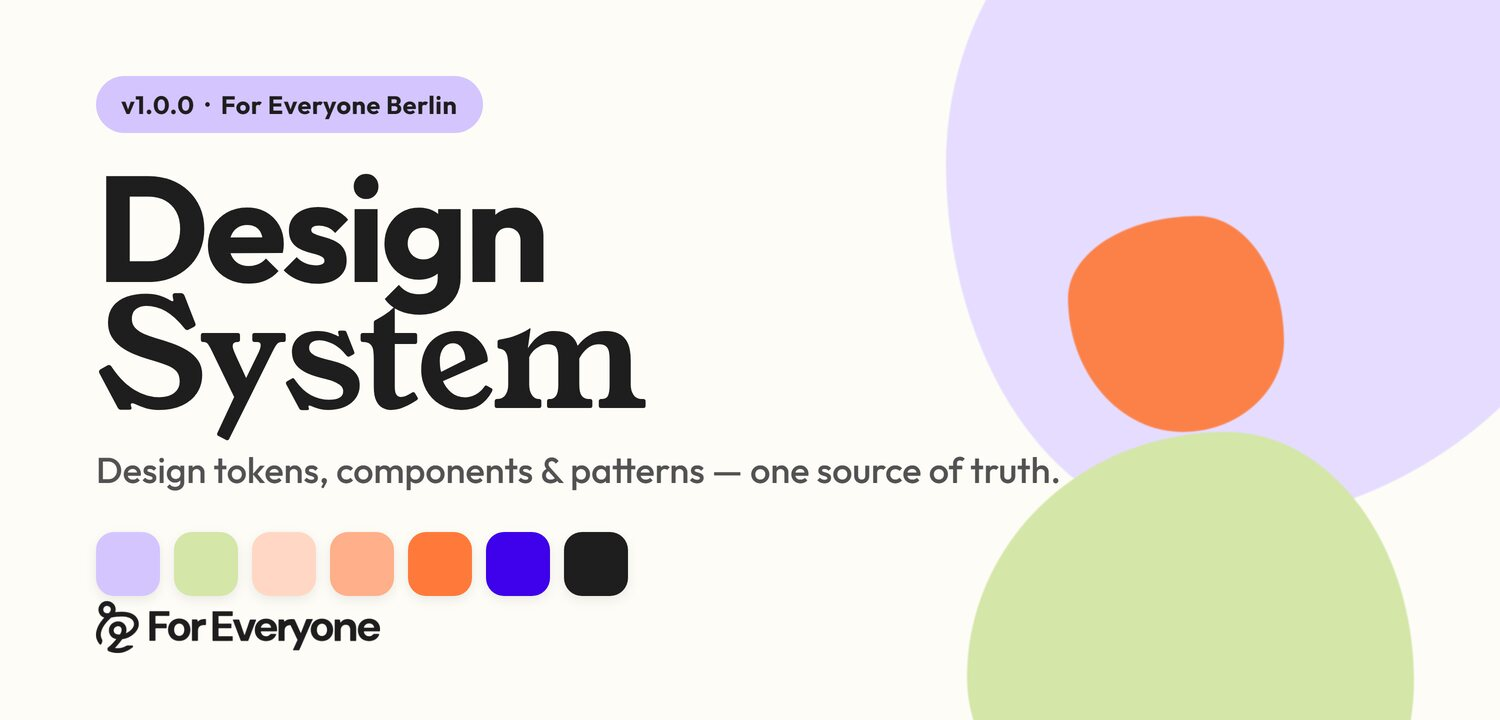
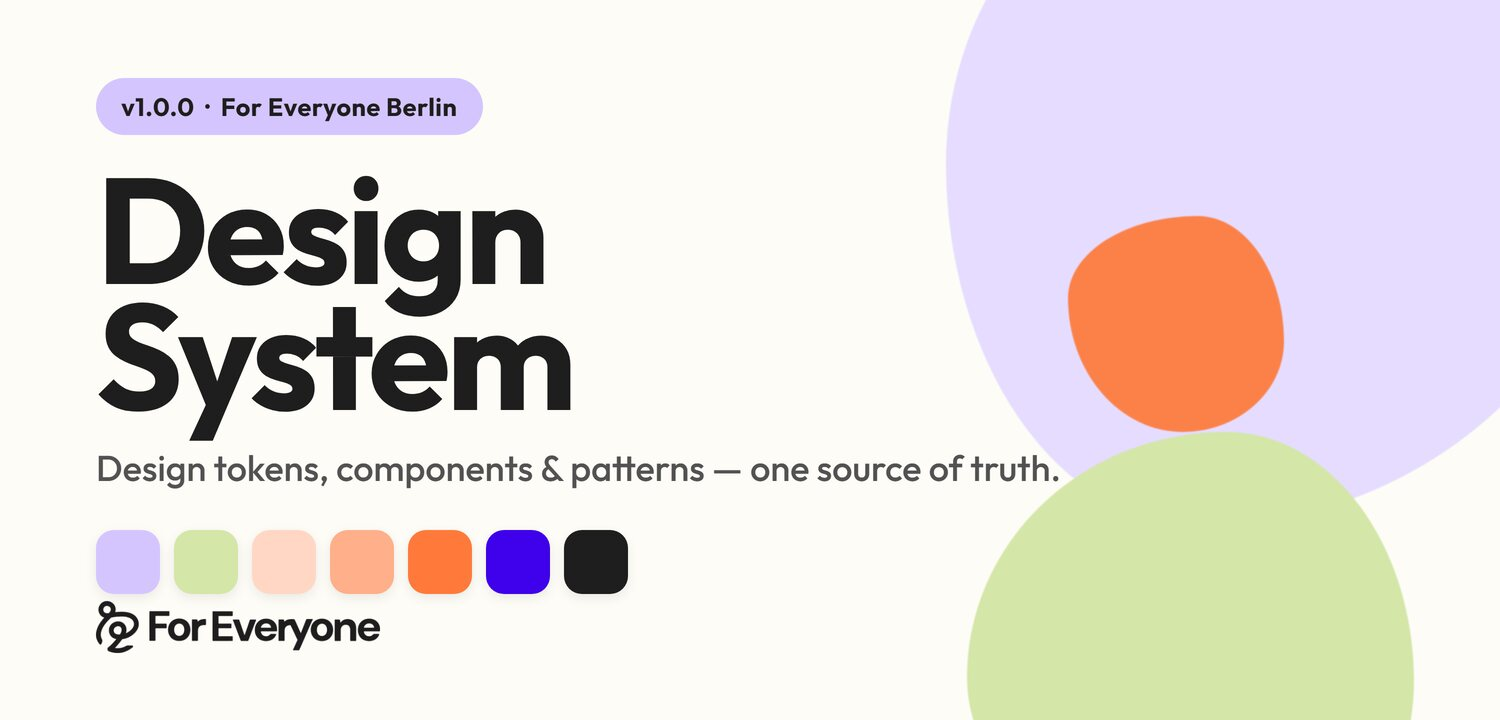
fix: apply brand review feedback
- Headlines render single charcoal; remove the orange two-tone accent and
  the .fe-h1--accent class (orange is decorative-only per brand).
- Keep Young Serif print-only; revert the digital serif accent and its
  prototype font loading.
- Remove the Motion token section from the prototype and docs surface.
- Label ramp swatches legibly (white on dark, charcoal on light).
- Tighten the 1.0.0 CHANGELOG to the documented one-line format.
- Regenerate the OG/README cards without the serif headline.

diff --git a/prototype/app/tokens/page.tsx b/prototype/app/tokens/page.tsx
@@ -28,19 +28,31 @@ const colorSwatches = [
   { token: "black", var: "var(--color-black)" },
 ];
 
-const rampSteps = {
-  neutral: ["50", "100", "200", "300", "400", "500", "600", "700", "800", "900"],
-  orange: ["50", "100", "150", "200", "300", "400", "500", "600", "700", "800", "900"],
-  green: ["50", "100", "150", "200", "300", "400", "500", "600", "700", "800", "900"],
-  blue: ["50", "100", "150", "200", "300", "400", "500", "600", "700", "800", "900"],
-  lavender: ["50", "100", "150", "200", "300", "400", "500", "600", "700", "800", "900"],
-} as const;
+const rampHex: Record<string, Record<string, string>> = {
+  neutral: { "50": "#FAFAFA", "100": "#F5F5F5", "200": "#E5E5E5", "300": "#D4D4D4", "400": "#A3A3A3", "500": "#737373", "600": "#525252", "700": "#404040", "800": "#262626", "900": "#1E1E1E" },
+  orange: { "50": "#FFF2EB", "100": "#FFE4D8", "150": "#FFD7C4", "200": "#FFCAB0", "300": "#FFAF89", "400": "#FF9561", "500": "#FF7A3A", "600": "#CC622E", "700": "#994923", "800": "#663117", "900": "#33180C" },
+  green: { "50": "#FBFCF6", "100": "#F6FAEE", "150": "#F2F7E5", "200": "#EEF5DC", "300": "#E5F0CB", "400": "#DDEBB9", "500": "#D4E6A8", "600": "#AAB886", "700": "#7F8A65", "800": "#555C43", "900": "#2A2E22" },
+  blue: { "50": "#ECE5FD", "100": "#D9CCFB", "150": "#C5B2F9", "200": "#B299F7", "300": "#8C66F3", "400": "#6533EF", "500": "#3F00EB", "600": "#3200BC", "700": "#26008D", "800": "#19005E", "900": "#0D002F" },
+  lavender: { "50": "#FBF9FF", "100": "#F7F3FF", "150": "#F2EEFF", "200": "#EEE8FF", "300": "#E6DCFF", "400": "#DDD1FF", "500": "#D5C5FF", "600": "#AA9ECC", "700": "#807699", "800": "#554F66", "900": "#2B2733" },
+};
 
-const colorRamps = Object.entries(rampSteps).map(([family, steps]) => ({
+// Pick a legible step label: white on dark swatches, charcoal on light ones.
+function labelColor(hex: string): string {
+  const toLin = (c: number) =>
+    c <= 0.03928 ? c / 12.92 : Math.pow((c + 0.055) / 1.055, 2.4);
+  const r = toLin(parseInt(hex.slice(1, 3), 16) / 255);
+  const g = toLin(parseInt(hex.slice(3, 5), 16) / 255);
+  const b = toLin(parseInt(hex.slice(5, 7), 16) / 255);
+  const luminance = 0.2126 * r + 0.7152 * g + 0.0722 * b;
+  return luminance < 0.35 ? "#FFFFFF" : "#1E1E1E";
+}
+
+const colorRamps = Object.entries(rampHex).map(([family, steps]) => ({
   family,
-  steps: steps.map((step) => ({
+  steps: Object.entries(steps).map(([step, hex]) => ({
     step,
     var: `var(--color-${family}-${step})`,
+    label: labelColor(hex),
   })),
 }));
 
@@ -112,7 +124,7 @@ const colorCode = `/* Brand */
 
 const typographyCode = `/* Font Families */
 --font-family-heading: 'FilsonPro', sans-serif;  /* H1–H3, body, UI */
---font-family-accent: 'Young Serif', serif;      /* serif accent: .fe-h1--serif, .fe-h3--serif */
+--font-family-accent: 'Young Serif', serif;      /* PRINT ONLY — not for digital */
 --font-family-body: 'FilsonPro', sans-serif;
 
 /* Font Weights */
@@ -169,23 +181,17 @@ const radiusShadowCode = `/* Border Radius */
 --shadow-card: 0 2px 8px rgba(0,0,0,0.08);
 --shadow-header: 0 2px 12px rgba(0,0,0,0.1);`;
 
-const motionCode = `/* Motion / Transitions */
---transition-fast: 150ms ease;
---transition-base: 250ms ease;
---transition-slow: 400ms ease;`;
-
 export default function TokensPage() {
   return (
     <>
       <h1 className="ds-hero-title">
         Design
         <br />
-        <span className="ds-hero-accent">Tokens</span>
+        Tokens
       </h1>
       <p className="ds-intro">
         Design tokens define the visual language — colors, typography, spacing,
-        radius, shadows, and motion. All values are exposed as CSS custom
-        properties.
+        radius, and shadows. All values are exposed as CSS custom properties.
       </p>
 
       <section id="colors" className="ds-section">
@@ -216,14 +222,16 @@ export default function TokensPage() {
             <div key={family} className="ds-ramp">
               <div className="ds-ramp-name">{family}</div>
               <div className="ds-ramp-row">
-                {steps.map(({ step, var: cssVar }) => (
+                {steps.map(({ step, var: cssVar, label }) => (
                   <div
                     key={step}
                     className="ds-ramp-swatch"
                     style={{ backgroundColor: cssVar }}
                     title={`--color-${family}-${step}`}
                   >
-                    <span className="ds-ramp-step">{step}</span>
+                    <span className="ds-ramp-step" style={{ color: label }}>
+                      {step}
+                    </span>
                   </div>
                 ))}
               </div>
@@ -327,20 +335,12 @@ export default function TokensPage() {
             <h2 className="fe-h1">Heading 1</h2>
           </div>
           <div>
-            <div className="fe-label">H1 additional — serif accent</div>
-            <h2 className="fe-h1 fe-h1--serif">Heading 1</h2>
-          </div>
-          <div>
             <div className="fe-label">H2</div>
             <h3 className="fe-h2">Heading 2</h3>
           </div>
           <div>
             <div className="fe-label">H3</div>
             <h4 className="fe-h3">Heading 3</h4>
-          </div>
-          <div>
-            <div className="fe-label">H3 additional — serif accent</div>
-            <h4 className="fe-h3 fe-h3--serif">Heading 3</h4>
           </div>
           <div>
             <div className="fe-label">Body</div>
@@ -411,17 +411,6 @@ export default function TokensPage() {
           ))}
         </div>
         <CodeBlock code={radiusShadowCode} />
-      </section>
-
-      <section id="motion" className="ds-section">
-        <h2 className="ds-section-title">Motion</h2>
-        <p className="fe-body" style={{ marginBottom: "var(--spacing-4)" }}>
-          Transitions: <code>--transition-fast</code> (150ms),{" "}
-          <code>--transition-base</code> (250ms), <code>--transition-slow</code>{" "}
-          (400ms). Hover the card:
-        </p>
-        <div className="ds-motion-demo-card">Hover me</div>
-        <CodeBlock code={motionCode} />
       </section>
     </>
   );

diff --git a/css/typography.css b/css/typography.css
@@ -7,19 +7,6 @@
   letter-spacing: var(--letter-spacing-tight);
   color: var(--color-theme-2);
 }
-/* Accent-tinted heading: brand-orange wording on the primary heading family.
-   Keeps Filson Pro; only changes colour for an emphasised word/phrase. */
-.fe-h1--accent {
-  color: var(--color-brand-primary);
-}
-
-/* Serif display heading (Young Serif accent) — style guide "H1 additional".
-   Use sparingly next to the Filson Pro primary. Young Serif ships one weight
-   (400) on the web, so this renders regular regardless of --font-weight-*. */
-.fe-h1--serif {
-  font-family: var(--font-family-accent);
-  font-weight: var(--font-weight-regular);
-}
 
 /* Italic emphasis (Filson Pro Italic) for publication names, artwork
    titles, and emphasised phrases. Use sparingly. */
@@ -41,11 +28,6 @@
   font-weight: var(--font-weight-bold);
   line-height: var(--line-height-snug);
   letter-spacing: var(--letter-spacing-tight);
-}
-/* Serif variant — style guide "H3 additional" (Young Serif at H3 size). */
-.fe-h3--serif {
-  font-family: var(--font-family-accent);
-  font-weight: var(--font-weight-regular);
 }
 .fe-body {
   font-size: var(--font-size-base);

diff --git a/prototype/app/globals.css b/prototype/app/globals.css
@@ -73,8 +73,6 @@ summary:focus-visible,
   scroll-behavior: smooth;
   --font-family-heading: var(--font-outfit, "Outfit"), sans-serif;
   --font-family-body: var(--font-outfit, "Outfit"), sans-serif;
-  /* Accent serif: Young Serif stands in for the brand accent (style guide H1/H3 additional). */
-  --font-family-accent: var(--font-young-serif, "Young Serif"), serif;
   /* Calmer motion than default tokens (prototype-only) */
   --transition-fast: 220ms ease;
   --transition-base: 400ms ease;
@@ -359,11 +357,6 @@ summary:focus-visible,
   font-size: clamp(1.75rem, 4vw + 1rem, 2.75rem);
 }
 
-.ds-hero-title .ds-hero-accent {
-  font-family: var(--font-family-heading);
-  color: var(--color-brand-primary);
-}
-
 .ds-hero-with-image .ds-intro {
   font-size: var(--font-size-xl);
 }
@@ -540,9 +533,7 @@ summary:focus-visible,
 .ds-ramp-step {
   font-size: 0.625rem;
   font-weight: var(--font-weight-medium);
-  /* Mix-blend keeps the label legible on both light and dark steps. */
-  color: var(--color-white);
-  mix-blend-mode: difference;
+  /* Colour is set inline per step (white on dark, charcoal on light). */
 }
 
 .ds-spacing-demo {

diff --git a/prototype/app/page.tsx b/prototype/app/page.tsx
@@ -18,9 +18,7 @@ export default function Home() {
           <h1 className="ds-hero-title">
             {heroCopy.headline.split(" ")[0]}
             <br />
-            <span className="ds-hero-accent">
-              {heroCopy.headline.split(" ").slice(1).join(" ")}
-            </span>
+            {heroCopy.headline.split(" ").slice(1).join(" ")}
           </h1>
           <span className="ds-hero-version">v{version}</span>
           <p className="ds-intro">{heroCopy.tagline}</p>
@@ -63,8 +61,8 @@ export default function Home() {
           <Link href="/tokens" className="ds-overview-card">
             <h3 className="ds-overview-card__title">Tokens</h3>
             <p className="ds-overview-card__desc">
-              Colors, typography, spacing, radius, shadows, and motion — the
-              visual foundation.
+              Colors, typography, spacing, radius, and shadows — the visual
+              foundation.
             </p>
             <span className="ds-overview-card__link">View tokens &rarr;</span>
           </Link>

diff --git a/prototype/app/layout.tsx b/prototype/app/layout.tsx
@@ -1,5 +1,5 @@
 import type { Metadata, Viewport } from "next";
-import { Outfit, Young_Serif } from "next/font/google";
+import { Outfit } from "next/font/google";
 import "./globals.css";
 import Navigation from "./_components/Navigation";
 import MobileNav from "./_components/MobileNav";
@@ -10,15 +10,6 @@ const outfit = Outfit({
   weight: ["400", "500", "700", "900"],
   subsets: ["latin"],
   variable: "--font-outfit",
-  display: "swap",
-});
-
-// Young Serif stands in for the brand accent serif (style guide H1/H3 additional).
-// Single weight (400) is the only one published.
-const youngSerif = Young_Serif({
-  weight: ["400"],
-  subsets: ["latin"],
-  variable: "--font-young-serif",
   display: "swap",
 });
 
@@ -87,7 +78,7 @@ export default function RootLayout({
   return (
     <html
       lang="en"
-      className={`ds-light-only ${outfit.variable} ${youngSerif.variable}`}
+      className={`ds-light-only ${outfit.variable}`}
       suppressHydrationWarning
     >
       <body suppressHydrationWarning>

diff --git a/prototype/content/site-copy.ts b/prototype/content/site-copy.ts
@@ -14,7 +14,7 @@ export const hero = {
 export const mission = {
   title: "What’s in this system",
   bodyLine1:
-    "Colors, typography, spacing, radius, shadows, and motion are defined as design tokens.",
+    "Colors, typography, spacing, radius, and shadows are defined as design tokens.",
   bodyLine2:
     "Buttons, cards, forms, and layout patterns use those tokens so the main site and this prototype stay consistent.",
 } as const;
@@ -23,7 +23,6 @@ export const stats = [
   { label: "Color tokens", value: "80+" },
   { label: "Spacing scale", value: "19" },
   { label: "Components", value: "12+" },
-  { label: "Motion presets", value: "3" },
 ] as const;
 
 export const designSystemIntro =

diff --git a/scripts/build-css.js b/scripts/build-css.js
@@ -181,8 +181,7 @@ ${rampCss}
 
   /* ── Typography: Font Families ───────────────────────────────────────── */
   --font-family-heading: ${getTokenValue(tokens, "font.family.heading")};
-  /* Accent serif (Young Serif). Display headings only (H1/H3 additional),    */
-  /* pull quotes, short highlights — never body copy. Single weight (400).    */
+  /* PRINT-ONLY. Do not reference --font-family-accent from digital surfaces. */
   --font-family-accent:  ${getTokenValue(tokens, "font.family.accent")};
   --font-family-body:    ${getTokenValue(tokens, "font.family.body")};
 

diff --git a/css/custom-properties.css b/css/custom-properties.css
@@ -117,8 +117,7 @@
 
   /* ── Typography: Font Families ───────────────────────────────────────── */
   --font-family-heading: 'FilsonPro', sans-serif;
-  /* Accent serif (Young Serif). Display headings only (H1/H3 additional),    */
-  /* pull quotes, short highlights — never body copy. Single weight (400).    */
+  /* PRINT-ONLY. Do not reference --font-family-accent from digital surfaces. */
   --font-family-accent:  'Young Serif', serif;
   --font-family-body:    'FilsonPro', sans-serif;
 

diff --git a/CHANGELOG.md b/CHANGELOG.md
@@ -12,13 +12,15 @@
 
 ## [1.0.0] - 2026-06-09
 
-First stable release: tokens, generated CSS, prototype, and docs aligned to the 2026 style guide.
-
-- **Feat**: Add full numeric colour ramps (50–900) for Neutral, Orange, Green, Blue, and Lavender to `tokens/colors.json`, matching the 2026 style guide; emit `--color-{family}-{step}` variables via `build-css.js`.
-- **Feat**: Promote Young Serif from print-only to a digital accent serif; add `.fe-h1--serif` / `.fe-h3--serif` (style guide "H1/H3 additional") and load Young Serif in the prototype.
-- **Feat**: Add `spacing-28` (112px) to complete the 8-point spacing grid from 8px to 128px.
-- **Feat**: Redesign the OG/social card and README hero (layered brand blobs, dual-font headline, token colour-swatch row, v1.0.0 pill); add reusable `prototype/scripts/build-og-card.mjs`.
-- **Docs**: Document the canonical 2026 category icon set (Balance and Wellness, Movement, Arts and Crafts, Expression, Music), UI/functional icons, and the orange line-illustration doodles in `docs/visual-styles.md`; flag the legacy 4-icon subset to align.
+- **Feat**: Add 50–900 numeric colour ramps for the five families to tokens; emit `--color-{family}-{step}` via `build-css.js`.
+- **Feat**: Label tokens-page ramp swatches with a legible step value (white on dark steps, charcoal on light).
+- **Feat**: Add `spacing-28` (112px) to complete the 8-point grid from 8px to 128px.
+- **Feat**: Ship brand line illustrations (flower, headline underline, swirl, sprout, coffee-heart) and a headline-underline utility.
+- **Feat**: Redesign the OG/social card and README hero; add reusable `prototype/scripts/build-og-card.mjs`.
+- **Fix**: Render headlines single-charcoal and drop the orange two-tone; orange is decorative-only, matching the live site.
+- **Docs**: Document the category icon set, UI icons, and line-illustration doodles in `docs/visual-styles.md`.
+- **Chore**: Keep Young Serif print-only; remove the Motion token section from the prototype and docs.
+- **Chore**: Sync the favicon and header nav from foreveryone.berlin.
 - **Chore**: Bump `package.json` and `prototype/package.json` to `1.0.0`.
 
 ## [0.14.0] - 2026-06-04

diff --git a/prototype/public/images/ASSETS.md b/prototype/public/images/ASSETS.md
@@ -9,7 +9,7 @@ Images in this folder are for **design system prototype use only** (design.forev
 **Current assets:**
 - `community-cafe.png` community cafe scene used as the prototype homepage hero, blob-masked photograph of people at the ForEveryone community cafe (1090x1094 PNG).
 - `workshop-group.jpg` workshop card image, photograph of community members laughing around a table in the cafe (1440x900 mozjpeg q82, ~242 KB).
-- `social-preview.jpg` Open Graph / Twitter / GitHub social card: "Design System" headline (Outfit Black "Design" over Young Serif "System"), a v1.0.0 pill, layered lavender/lime/orange brand blobs, a token colour-swatch row, and the For Everyone wordmark, at 1200x630 (1.91:1) per OG best practice (~48 KB). Also upload this file as the GitHub repo social preview (Settings → General → Social preview).
+- `social-preview.jpg` Open Graph / Twitter / GitHub social card: bold "Design System" headline, a v1.0.0 pill, layered lavender/lime/orange brand blobs, a token colour-swatch row, and the For Everyone wordmark, at 1200x630 (1.91:1) per OG best practice (~48 KB). Also upload this file as the GitHub repo social preview (Settings → General → Social preview).
 - `readme-hero.jpg` README hero on GitHub, same composition at 1500x720 (~2.08:1, ~56 KB). Regenerate both cards (design-system-driven HTML rendered with Chromium) via `node scripts/build-og-card.mjs`, then convert the temp PNGs to JPG with ImageMagick (`-resize`, `-quality 84`).
 
 **Current icons:**

diff --git a/README.md b/README.md
@@ -1,6 +1,6 @@
 # ForEveryone Berlin Design System
 
-![ForEveryone Design System card: a bold "Design System" headline (sans-serif "Design" over serif "System") on a warm-white ground with layered lavender, lime, and orange brand blobs, a v1.0.0 tag, a row of token colour swatches, and the For Everyone wordmark.](prototype/public/images/readme-hero.jpg)
+![ForEveryone Design System card: a bold "Design System" headline on a warm-white ground with layered lavender, lime, and orange brand blobs, a v1.0.0 tag, a row of token colour swatches, and the For Everyone wordmark.](prototype/public/images/readme-hero.jpg)
 
 Token-driven design system for [foreveryone.berlin](https://foreveryone.berlin/), an open, inclusive community space in Berlin. Design tokens, generated CSS, and a Next.js prototype that pulls it all together.
 
